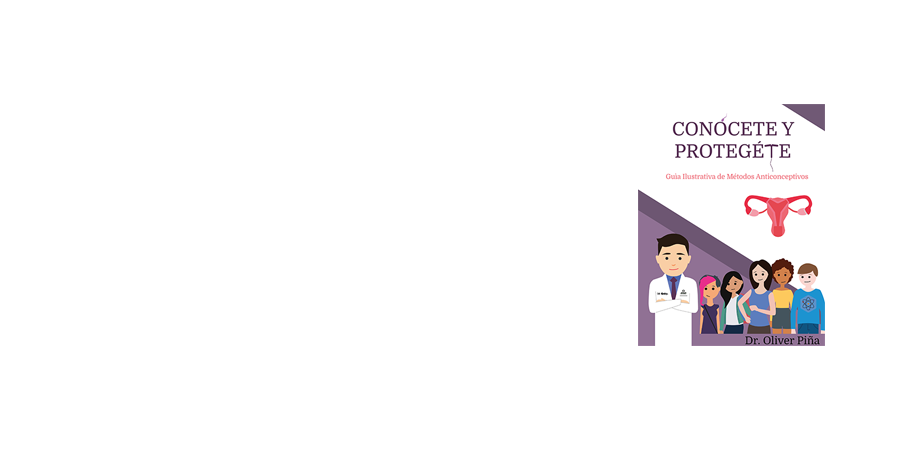
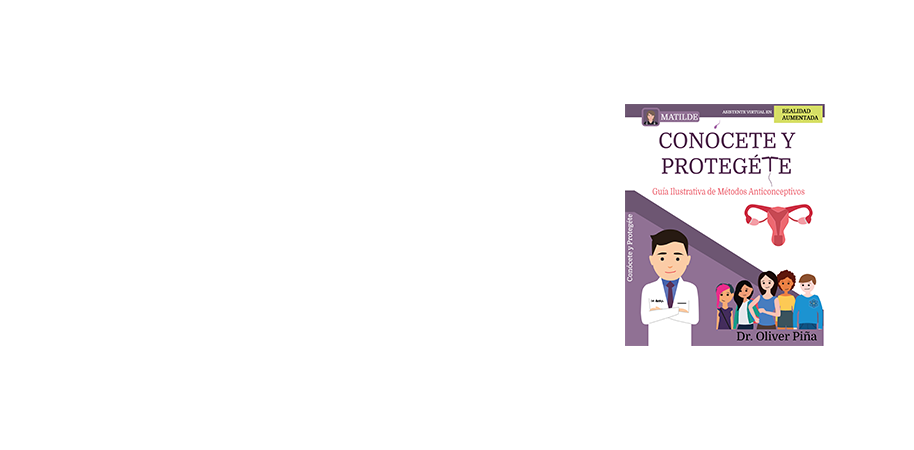
actualizacion del sitio

Changed region(s): [[0.674, 0.2178, 0.919, 0.7778]]

diff --git a/index.html b/index.html
@@ -10,6 +10,8 @@
 	<title>Conocete y protégete</title>
 	<meta charset="utf-8" />
 	<meta name="viewport" content="width=device-width, initial-scale=1, user-scalable=no" />
+	<meta name=”keywords”
+		content="libro,metodos anticonceptivos, embarazo adolescente, matilde, krustylab, aborto, anatomia, realidad aumentada, unity, ciclo menstrual, oliver piña, interrupcion legal del embarazo, ile, enfermedades de transmision sexual, legalidad del aborto, citología cervical, papanicolao">
 	<link rel="stylesheet" href="assets/css/main.css" />
 	<link rel="stylesheet" href="assets/css/index.css" />
 	<link rel="stylesheet" href="assets/css/text-carousel.css">
@@ -19,131 +21,6 @@
 </head>
 
 <body class="is-preload">
-
-	<div id="modal-comprar" class="modal">
-
-		<!-- Modal content -->
-		<div class="modal-content">
-			<!-- <span class="close">&times;</span> -->
-			<section class="panel color4-alt">
-				<div class="intro color4">
-					<h2 class="major">Conocete y protegete</h2>
-					<!-- <p>Producto aún no disponible.</p> -->
-					<img style="width: 200px;" class="image filtered" src="images/portada.jpg" alt="">
-				</div>
-				<div class="inner columns divided">
-					<div class="span-3-25">
-						<form method="POST" id="card-form" action="#">
-							<div class="fields" style="color:white;">
-								<div class="field large">
-									<label for="tarjeta">Nombre del Tarjetahabiente</label>
-									<input type="text" name="nombre-trh" id="nombre-trh" />
-								</div>
-								<div class="field large">
-									<label for="email">Número de tarjeta (sin guiones)</label>
-									<input type="text" maxlength="16" name="tarjeta" id="tarjeta" />
-								</div>
-								<div class="field large">
-									<label for="">Fecha de Expiración</label>
-								</div>
-								<div class="field half">
-									<label for="">Mes</label>
-									<input type="text" size="2" name="exp-mes" id="exp-mes" />
-								</div>
-								<div class="field half">
-									<label for="">año</label>
-									<input type="text" size="4" name="exp-anio" id="exp-anio" />
-								</div>
-								<div class="field large">
-									<label for="">Cód. de Seguridad</label>
-									<input type="text" name="name" id="cvc" />
-								</div>
-								<div class="field large">
-									<label for="name">Email</label>
-									<input type="text" name="email" id="email" />
-								</div>
-								<div class="field large">
-									<label for="name">Telefono</label>
-									<input type="text" name="telefono" id="telefono" />
-								</div>
-
-								<div class="field large">
-									<label for="name">Dirección</label>
-								</div>
-								<div class="field large">
-									<label for="name">Estado</label>
-									<select name="estado" id="estado">
-										<option value="0">-</option>
-										<option value="Aguascalientes">Aguascalientes</option>
-										<option value="Baja California">Baja California</option>
-										<option value="Baja California Sur">Baja California Sur</option>
-										<option value="Campeche">Campeche</option>
-										<option value="Coahuila de Zaragoza">Coahuila de Zaragoza</option>
-										<option value="Colima">Colima</option>
-										<option value="Chiapas">Chiapas</option>
-										<option value="Chihuahua">Chihuahua</option>
-										<option value="Distrito Federal">Distrito Federal</option>
-										<option value="Durango">Durango</option>
-										<option value="Guanajuato">Guanajuato</option>
-										<option value="Guerrero">Guerrero</option>
-										<option value="Hidalgo">Hidalgo</option>
-										<option value="Jalisco">Jalisco</option>
-										<option value="México">México</option>
-										<option value="Michoacán de Ocampo">Michoacán de Ocampo</option>
-										<option value="Morelos">Morelos</option>
-										<option value="Nayarit">Nayarit</option>
-										<option value="Nuevo León">Nuevo León</option>
-										<option value="Oaxaca">Oaxaca</option>
-										<option value="Puebla">Puebla</option>
-										<option value="Querétaro">Querétaro</option>
-										<option value="Quintana Roo">Quintana Roo</option>
-										<option value="San Luis Potosí">San Luis Potosí</option>
-										<option value="Sinaloa">Sinaloa</option>
-										<option value="Sonora">Sonora</option>
-										<option value="Tabasco">Tabasco</option>
-										<option value="Tamaulipas">Tamaulipas</option>
-										<option value="Tlaxcala">Tlaxcala</option>
-										<option value="Veracruz de Ignacio de la Llave">Veracruz de Ignacio de la Llave
-										</option>
-										<option value="Yucatán">Yucatán</option>
-										<option value="Zacatecas">Zacatecas</option>
-									</select>
-								</div>
-
-								<div class="field large">
-									<label for="name">Ciudad</label>
-									<input type="text" name="ciudad" id="ciudad" />
-								</div>
-								<div class="field large">
-									<label for="name">Calle</label>
-									<input type="text" name="calle" id="calle" />
-								</div>
-								<div class="field large">
-									<label for="name">Colonia</label>
-									<input type="text" name="Colonia" id="Colonia" />
-								</div>
-								<div class="field large">
-									<label for="name">Código postal</label>
-									<input type="text" name="cp" id="cp" />
-								</div>
-							</div>
-
-							<div class="field large">
-								<label for="" id="errors"></label>
-							</div>
-
-							<ul class="actions">
-								<li><button type="submit" id="pay" href="#" class="button primary">Pagar
-										$399.00</button type="submit"></li>
-								<li><a href="#" class="button primary close">Cerrar</a></li>
-
-							</ul>
-						</form>
-					</div>
-				</div>
-			</section>
-		</div>
-	</div>
 
 	<!-- Page Wrapper -->
 	<div id="page-wrapper">
@@ -188,7 +65,7 @@
 					</ul>
 				</div>
 				<div class="image  span-1-75"
-					style="background: url(images/portada.jpg) no-repeat;background-size: cover;"
+					style="background: url(images/portada.png) no-repeat;background-size: cover;"
 					data-position="25% 25%">
 					<!-- <img src="images/portada.jpg" alt="" /> -->
 				</div>
@@ -317,19 +194,19 @@
 				</div>
 			</section>
 
-			<section class="panel spotlight large left">
+			<section id="comprar" class="panel spotlight large left">
 				<div class="content tinted span-5">
 					<h2 class="major">¡Adquiere el libro!</h2>
 					<p>
-						<ul class="alt">
+						<ul style="font-weight: bold" class="alt">
 							<li>
 								Autor: Oliver Piña
 							</li>
 							<li>
-								Páginas: 134
+								Páginas: 133
 							</li>
 							<li>
-								Peso: 100 gr
+								Peso: 650 gr
 							</li>
 							<li>
 								Idioma: Español
@@ -447,7 +324,9 @@
 		<div style="position: fixed;bottom: 0;">
 			<a href="http://conoceteyprotegete.mx/terminos.html" class="button primary color2">Terminos y
 				Condiciones</a>
-			<button class="button primary color2 btn-comprar">Comprar</button>
+			<a href="http://conoceteyprotegete.mx/politicas.html" class="button primary color2 btn-comprar">Politicas</a
+				href="http://conoceteyprotegete.mx/politicas.html">
+			<a href="#comprar" class="button primary color2 btn-comprar">Comprar</a>
 		</div>
 
 	</div>

diff --git a/politicas.html b/politicas.html
@@ -1,0 +1,83 @@
+<!DOCTYPE html>
+<html lang="en">
+
+<head>
+    <meta charset="UTF-8">
+    <meta name="viewport" content="width=device-width, initial-scale=1.0">
+    <meta http-equiv="X-UA-Compatible" content="ie=edge">
+    <link rel="stylesheet" href="assets/css/main.css" />
+    <title>Políticas de privacidad</title>
+</head>
+
+<body>
+    <div id="page-wrapper" style="overflow-y: scroll;">
+        <!-- Wrapper -->
+        <div id="wrapper" style="padding: 21px;margin-top: 500px;height: auto !important;color: black;">
+            POLÍTICA DE PRIVACIDAD
+            <br>
+            El presente Política de Privacidad establece los términos en que Conócete y Protégete usa y
+            protege la información que es proporcionada por sus usuarios al momento de utilizar su sitio web.
+            Esta compañía está comprometida con la seguridad de los datos de sus usuarios. Cuando le
+            pedimos llenar los campos de información personal con la cual usted pueda ser identificado, lo
+            hacemos asegurando que sólo se empleará de acuerdo con los términos de este documento. Sin
+            embargo esta Política de Privacidad puede cambiar con el tiempo o ser actualizada por lo que le
+            recomendamos y enfatizamos revisar continuamente esta página para asegurarse que está de
+            acuerdo con dichos cambios.
+            <br>Información que es recogida<br>
+            Nuestro sitio web podrá recoger información personal por ejemplo: Nombre, información de
+            contacto como su dirección de correo electrónica e información demográfica. Así mismo cuando
+            sea necesario podrá ser requerida información específica para procesar algún pedido o realizar
+            una entrega o facturación.
+            <br>Uso de la información recogida<br>
+            Nuestro sitio web emplea la información con el fin de proporcionar el mejor servicio posible,
+            particularmente para mantener un registro de usuarios, de pedidos en caso que aplique, y mejorar
+            nuestros productos y servicios. Es posible que sean enviados correos electrónicos
+            periódicamente a través de nuestro sitio con ofertas especiales, nuevos productos y otra
+            información publicitaria que consideremos relevante para usted o que pueda brindarle algún
+            beneficio, estos correos electrónicos serán enviados a la dirección que usted proporcione y
+            podrán ser cancelados en cualquier momento.
+            Conócete y Protégete está altamente comprometido para cumplir con el compromiso de mantener
+            su información segura. Usamos los sistemas más avanzados y los actualizamos constantemente
+            para asegurarnos que no exista ningún acceso no autorizado.
+            <br>Cookies<br>
+            Una cookie se refiere a un fichero que es enviado con la finalidad de solicitar permiso para
+            almacenarse en su ordenador, al aceptar dicho fichero se crea y la cookie sirve entonces para
+            tener información respecto al tráfico web, y también facilita las futuras visitas a una web
+            recurrente. Otra función que tienen las cookies es que con ellas las web pueden reconocerte
+            individualmente y por tanto brindarte el mejor servicio personalizado de su web.
+            Nuestro sitio web emplea las cookies para poder identificar las páginas que son visitadas y su
+            frecuencia. Esta información es empleada únicamente para análisis estadístico y después la
+            información se elimina de forma permanente. Usted puede eliminar las cookies en cualquier
+            momento desde su ordenador. Sin embargo las cookies ayudan a proporcionar un mejor servicio
+            de los sitios web, estás no dan acceso a información de su ordenador ni de usted, a menos de
+            que usted así lo quiera y la proporcione directamente, visitas a una web . Usted puede aceptar o
+            negar el uso de cookies, sin embargo la mayoría de navegadores aceptan cookies
+            automáticamente pues sirve para tener un mejor servicio web. También usted puede cambiar la
+            configuración de su ordenador para declinar las cookies. Si se declinan es posible que no pueda
+            utilizar algunos de nuestros servicios.
+            <br>Enlaces a Terceros<br>
+            Este sitio web pudiera contener en laces a otros sitios que pudieran ser de su interés. Una vez
+            que usted de clic en estos enlaces y abandone nuestra página, ya no tenemos control sobre al
+            sitio al que es redirigido y por lo tanto no somos responsables de los términos o privacidad ni de la
+            protección de sus datos en esos otros sitios terceros. Dichos sitios están sujetos a sus propias
+            políticas de privacidad por lo cual es recomendable que los consulte para confirmar que usted
+            está de acuerdo con estas.
+            <br>Control de su información personal<br>
+            En cualquier momento usted puede restringir la recopilación o el uso de la información personal
+            que es proporcionada a nuestro sitio web. Cada vez que se le solicite rellenar un formulario,
+            como el de alta de usuario, puede marcar o desmarcar la opción de recibir información por correo
+            electrónico. En caso de que haya marcado la opción de recibir nuestro boletín o publicidad usted
+            puede cancelarla en cualquier momento.
+            Esta compañía no venderá, cederá ni distribuirá la información personal que es recopilada sin su
+            consentimiento, salvo que sea requerido por un juez con un orden judicial.
+            Conócete y Protégete Se reserva el derecho de cambiar los términos de la presente Política de
+            Privacidad en cualquier momento.
+
+        </div>
+        <a href="http://conoceteyprotegete.mx" style="position: absolute;bottom: 0;"
+            class="button primary color2">Regresar</a>
+    </div>
+
+</body>
+
+</html>

diff --git a/assets/js/custom.js b/assets/js/custom.js
@@ -59,7 +59,7 @@
 
     input.addEventListener('click', function (evt) {
         // evt.preventDefault();
-        input.href = `mailto:grupoikaro@gmail.com?body=Mi nombre es ${name.value}. ${message.value}`;
+        input.href = `mailto:hola@conoceteyprotegete.mx?body=Mi nombre es ${name.value}. ${message.value}`;
     });
 
     function referenciasDOM(inicio, final) {
@@ -76,10 +76,10 @@
         });
     });
 
-    span.addEventListener('click', function () {
-        modal.style.visibility = "hidden";
-        modal.classList.remove('active');
-    });
+    // span.addEventListener('click', function () {
+    //     modal.style.visibility = "hidden";
+    //     modal.classList.remove('active');
+    // });
 
     window.addEventListener('click', function (event) {
         if (event.target == modal) {

diff --git a/assets/css/index.css b/assets/css/index.css
@@ -1,5 +1,5 @@
 .panel .span-1-75 {
-    width: 25rem !important;
+    width: 26rem !important;
 }
 .panel > * {
     position: relative;
